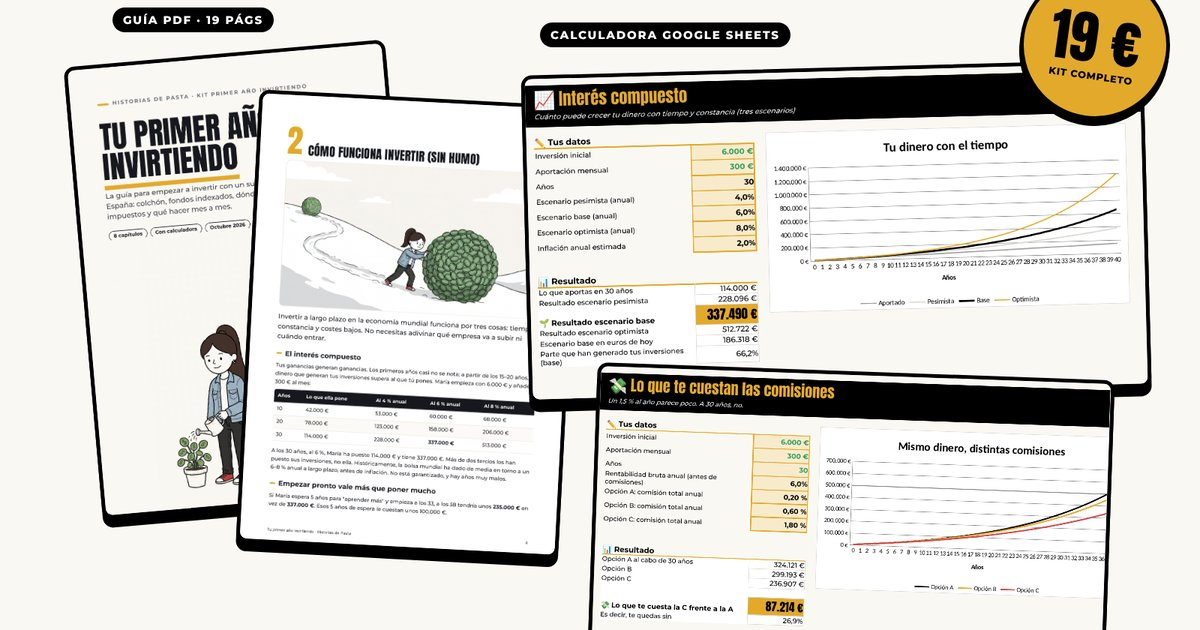
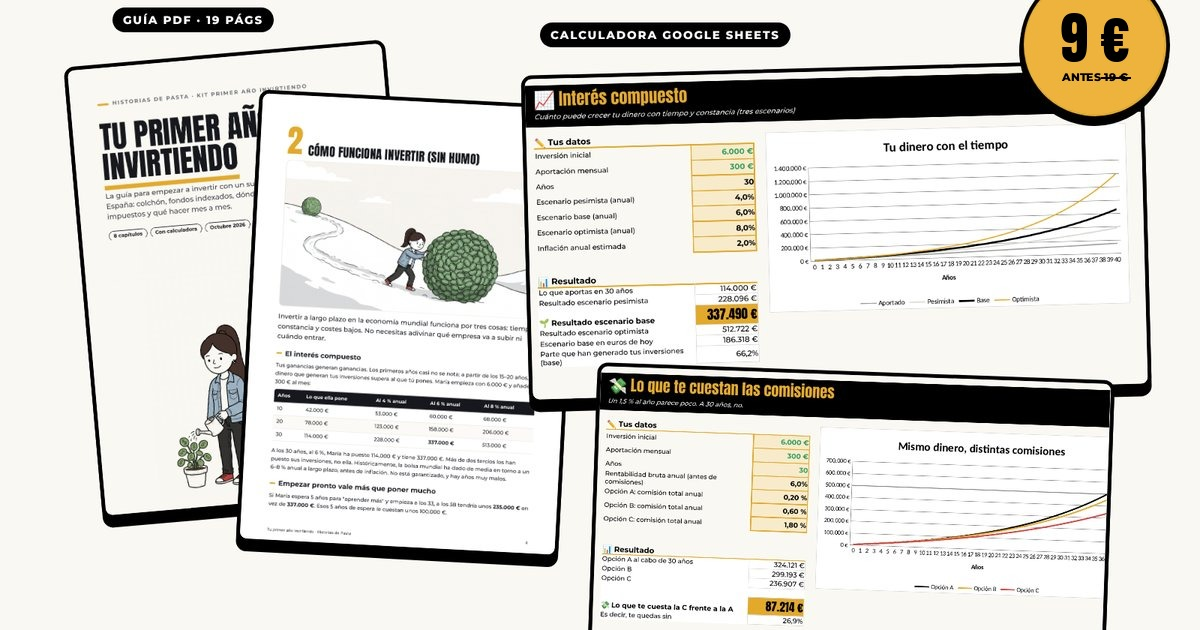
Precio de lanzamiento 9 € (hasta 30 nov) para Tu primer año invirtiendo — pendiente del nuevo payment link
- Precio tachado 19 € → 9 € en producto, /productos, home y /empieza
- Insignia de las imágenes del kit: 9 € (antes 19 €)
- La página de descarga acepta varios payment links (extraPlinks / lista en la variable)

Claude-Session: https://claude.ai/code/session_01MgiDjQ3YEm1JXoyPK8s632

Changed region(s): [[0.8633, 0.0, 0.9558, 0.1508]]

diff --git a/src/gracias.js b/src/gracias.js
@@ -9,7 +9,7 @@
 // Needs one secret in Netlify (Site configuration → Environment variables):
 //   STRIPE_KEY  a restricted key (rk_live_…) with read access to Checkout Sessions.
 // Optional, to make sure a payment for one kit doesn't unlock the other:
-//   PLINK_KIT_COMPRAR_PISO, PLINK_PRIMER_ANO_INVIRTIENDO  the plink_… IDs.
+//   PLINK_KIT_COMPRAR_PISO, PLINK_PRIMER_ANO_INVIRTIENDO  the plink_… IDs (comma-separated if several).
 
 const SESSION_RE = /^cs_(live|test)_[A-Za-z0-9]{10,200}$/;
 
@@ -39,7 +39,8 @@ export async function verifySession(sessionId, env, expectedPlink, fetchImpl = f
   const s = await res.json();
   const paid = s.status === "complete" && (s.payment_status === "paid" || s.payment_status === "no_payment_required");
   if (!paid) return { ok: false, reason: "unpaid" };
-  if (expectedPlink && s.payment_link && s.payment_link !== expectedPlink) return { ok: false, reason: "other-kit" };
+  const allowed = [].concat(expectedPlink || []).filter(Boolean);
+  if (allowed.length && s.payment_link && !allowed.includes(s.payment_link)) return { ok: false, reason: "other-kit" };
   return { ok: true };
 }
 
@@ -63,10 +64,14 @@ function lockedPage(template, kitPath, reason) {
   return template.replace(/<main[\s\S]*?<\/main>/, main);
 }
 
-export async function handleGracias(context, { template, kitPath, expectedPlinkVar }) {
+export async function handleGracias(context, { template, kitPath, expectedPlinkVar, extraPlinks = [] }) {
   const url = new URL(context.request.url);
   const sessionId = url.searchParams.get("session_id");
-  const result = await verifySession(sessionId, context.env, context.env[expectedPlinkVar]);
+  // The env var may hold one plink_… ID or several separated by commas; extraPlinks adds
+  // links created later (e.g. a launch-price link) without touching Netlify settings.
+  const fromEnv = String(context.env[expectedPlinkVar] || "").split(",").map((x) => x.trim()).filter(Boolean);
+  const expected = fromEnv.length ? [...fromEnv, ...extraPlinks] : [];
+  const result = await verifySession(sessionId, context.env, expected);
 
   if (result.ok) return new Response(template, { headers: HEADERS });
   const status = result.reason === "stripe" || result.reason === "config" ? 503 : 403;

diff --git a/public/primer-ano-invirtiendo/index.html b/public/primer-ano-invirtiendo/index.html
@@ -96,7 +96,8 @@
       <h1>Tu primer año <span class="mark">invirtiendo</span></h1>
       <p class="lead">Qué hacer antes de invertir, qué fondos elegir, dónde abrir la cuenta y cómo pagar menos impuestos. Mes a mes, sin humo y para gente con sueldo normal en España.</p>
       <div class="kit-buy">
-        <a class="btn kit-btn" href="https://buy.stripe.com/00waEY83k7J99y1fpx38402" data-checkout>Comprar el kit · <span class="num">19&nbsp;€</span></a>
+        <a class="btn kit-btn" href="https://buy.stripe.com/00waEY83k7J99y1fpx38402" data-checkout>Comprar el kit · <s class="was">19&nbsp;€</s> <span class="num">9&nbsp;€</span></a>
+        <span class="kit-launch">Precio de lanzamiento hasta el 30 de noviembre</span>
         <span class="kit-note">Pago único · Descarga al momento · IVA incluido · Pago seguro con Stripe</span>
       </div>
     </div>
@@ -207,8 +208,9 @@
     <div>
       <h2>Empieza bien <span class="mark">desde el primer euro</span></h2>
       <p class="lead">Por menos de lo que pagas en comisiones en un mes con un fondo caro, sabrás qué hacer con tu dinero durante todo tu primer año.</p>
-      <a class="btn kit-btn" href="https://buy.stripe.com/00waEY83k7J99y1fpx38402" data-checkout>Comprar el kit · <span class="num">19&nbsp;€</span></a>
-      <p class="kit-note" style="margin-top:12px">Contenido educativo. No es asesoramiento financiero ni fiscal. Invertir implica riesgo de pérdida.</p>
+      <a class="btn kit-btn" href="https://buy.stripe.com/00waEY83k7J99y1fpx38402" data-checkout>Comprar el kit · <s class="was">19&nbsp;€</s> <span class="num">9&nbsp;€</span></a>
+      <p class="kit-launch" style="margin-top:10px">Precio de lanzamiento: 9&nbsp;€ hasta el 30 de noviembre (después, 19&nbsp;€).</p>
+      <p class="kit-note" style="margin-top:6px">Contenido educativo. No es asesoramiento financiero ni fiscal. Invertir implica riesgo de pérdida.</p>
     </div>
   </div>
 </section>

diff --git a/public/index.html b/public/index.html
@@ -69,10 +69,10 @@
   <div class="wrap">
     <a class="card kit-promo" href="primer-ano-invirtiendo/">
       <div class="copy">
-        <span class="tag-new">Nuevo · Tu primer año invirtiendo</span>
+        <span class="tag-new">Lanzamiento · 9&nbsp;€ hasta el 30 nov</span>
         <h2>¿Quieres empezar a <span class="mark">invertir</span>?</h2>
         <p>Guía ilustrada + calculadora para tu primer año: fondos indexados, dónde abrir la cuenta, comisiones e impuestos en España, y qué hacer mes a mes.</p>
-        <span class="btn">Ver el kit · <span class="num">19&nbsp;€</span></span>
+        <span class="btn">Ver el kit · <s class="was">19&nbsp;€</s> <span class="num">9&nbsp;€</span></span>
       </div>
       <div class="art"><img src="img/inv/kit-wide.webp" alt="Guía y calculadora de Tu primer año invirtiendo" width="1400" height="875" loading="lazy"></div>
     </a>

diff --git a/public/empieza/index.html b/public/empieza/index.html
@@ -161,7 +161,7 @@
   <a class="card emp-kit" href="../primer-ano-invirtiendo/">
     <img src="../img/inv/kit-square.webp" alt="Guía y calculadora de Tu primer año invirtiendo" width="160" height="160">
     <div>
-      <span class="badge badge--paid">Kit · 19&nbsp;€</span>
+      <span class="badge badge--paid">Kit · <s class="was">19&nbsp;€</s> 9&nbsp;€ hasta el 30 nov</span>
       <h2>¿Quieres el plan completo?</h2>
       <p>«Tu primer año invirtiendo»: guía ilustrada de 19 páginas y calculadora para elegir fondos y plataforma, montar tu primera cartera, pagar menos impuestos y saber qué hacer cada mes del primer año.</p>
       <span class="btn">Ver el kit</span>

diff --git a/public/productos/index.html b/public/productos/index.html
@@ -78,7 +78,7 @@ a.prod:hover .btn{transform:translateY(-1px);box-shadow:0 5px 0 var(--ink)}
           <span class="badge badge--paid">Kit · Guía + calculadora</span>
           <h2>Tu primer año invirtiendo</h2>
           <p class="muted">Fondos indexados, brókers, comisiones e impuestos en España: qué hacer antes de invertir, tu primera cartera y tu primer año mes a mes.</p>
-          <div class="meta"><span class="price-tag">19&nbsp;€</span><span class="btn btn--small">Ver el kit</span></div>
+          <div class="meta"><span class="price-tag"><s class="was">19&nbsp;€</s> 9&nbsp;€</span><span class="btn btn--small">Ver el kit</span></div>
         </div>
       </a>
 

diff --git a/public/css/site.css b/public/css/site.css
@@ -247,3 +247,7 @@ a.kit-promo:hover .btn{transform:translateY(-1px);box-shadow:0 5px 0 var(--ink)}
 .signup--compact h2{font-size:clamp(1.5rem,3.2vw,2rem)}
 .signup--compact .signup-text{margin-bottom:16px}
 .emp .signup{margin-bottom:20px}
+
+/* Launch price (Tu primer año invirtiendo, hasta 30 nov 2026) */
+.was{text-decoration:line-through;text-decoration-thickness:2px;opacity:.6;font-weight:inherit;margin-right:.15em}
+.kit-launch{display:block;font-weight:700;font-size:.92rem;color:var(--ink,#141414)}
